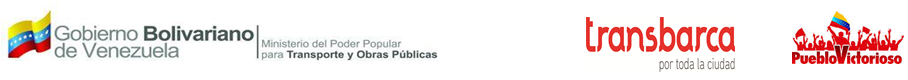
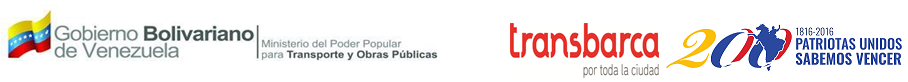
today

Changed region(s): [[0.5551, 0.15, 1.0, 0.925], [0.0, 0.225, 0.4934, 0.75]]

diff --git a/solvencias.html b/solvencias.html
@@ -16,7 +16,7 @@
    <link rel="stylesheet" href="css/calendario.css" type="text/css" media="screen">    
    <link rel="stylesheet" href="font-awesome/css/font-awesome.css" >
    <link rel="stylesheet" href="css/bootstrap-theme.css">
-   <link media="print" rel="stylesheet" type="text/css" href="print.css">
+   <link rel="stylesheet" media="print and (orientation:portrait)" href="print.css">
    <script src="js/jquery.min.js"></script>
    <script src="js/jquery.js"></script>
    <script src="js/solvenciaController.js" type="text/javascript"></script>
@@ -32,9 +32,9 @@
 <div id="header"></div>
 <body>
 <div id="cabecera">
-    <img src="images/cabecera.png">
+    <img src="images/solvencia.png">
   </div>
-<section class="inicio container">
+<section id="solvencias" class="inicio container">
   <h3>SOLVENCIA DE ENTREGA DE EQUIPOS TECNOLÓGICOS</h3>
     <article id="contenedor" class="row hidden-print">
       <div class="col-md-4 text-center">
@@ -106,30 +106,7 @@
         <button id="btnImprimir" type="button" class="btn hidden-print" onclick="window.print()">Imprimir</button>
       </div>
     </article>
-    <article id="contenedor" class="row">
-      <div id="bloque2" class="text-center col-md-12 visible-print">
-        <label class="padding"> Recibido por: </label>
-        <label>Entregado por:</label>   
-    </div>
-  </article>
-   <article id="firma" class="row visible-print">
-    <div class="col-md-12 text-center">
-      <label class="padding">_____________________</label><label>_____________________</label>
-    </div>
-  </article>
-  <article id="firma" class="row visible-print">
-    <div class="col-md-12 text-center">
-      <label class="padding">C.I.:__________________</label><label>C.I.:__________________</label>
-    </div>
-  </article>
-    <article class="row visible-print">
-      <div id="pie2" class="text-center col-md-12">
-          <p>Av. Florencio Jiménez, KM 3, Edif. Estación Central Simón Bolívar<br>
-        Piso PB,  Barquisimeto, Municipio Iribarren, Edo. Lara.<br>
-        RIF: G-20005347-0<br>
-        www.transbarca.gob.ve<br></p>
-      </div>
-  </article>  
+    
     </form>
 </section>
     <script src="js/menu.js" type="text/javascript"></script>    

diff --git a/reportetipoequipo.html b/reportetipoequipo.html
@@ -13,7 +13,7 @@
     <link rel="stylesheet" type="text/css" href="css/calendario.css">
     <link rel="stylesheet" href="css/bootstrap.min.css">
     <link rel="stylesheet" href="style.css" type="text/css" media="screen">
-    <link rel="stylesheet" href="print.css" type="text/css" media="print">
+    <link rel="stylesheet" media="print and (orientation:landscape)" href="landscape.css">
    <link rel="stylesheet" href="font-awesome/css/font-awesome.css" >
    <script src="js/jquery.min.js"></script>
    <script src="js/tooltips.js"></script>
@@ -24,9 +24,9 @@
 <div id="header"></div>
 <body>
 <div id="cabecera">
-    <img src="images/cabecera.png">
+    <img src="images/reportebieneslands.png">
   </div>
-<section class="inicio container">
+<section id="tipoequipo" class="inicio container">
   <h3>Reporte por Tipo</h3>
     <form>
       <article class="row hidden-print">
@@ -48,25 +48,7 @@
         <div class="col-md-2 col-md-offset-5">
           <button id="btnImprimir" type="button" class="btn hidden-print" onclick="window.print()">Imprimir</button>
         </div>
-    </article>
-    <article id="contenedor" class="row ">
-      <div id="bloque2" class="text-center col-md-12 visible-print">
-        <label>COORDINACIÓN DE TELECOMUNICACIONES</label>
-    </div>
-    </article>
-  <article id="firma" class="row visible-print">
-    <div class="col-md-12 text-center">
-     <label>_______________________</label>
-    </div>
-  </article>
-    <article class="row visible-print">
-      <div id="pie2" class="text-center col-md-12">
-          <p>Av. Florencio Jiménez, KM 3, Edif. Estación Central Simón Bolívar<br>
-        Piso PB,  Barquisimeto, Municipio Iribarren, Edo. Lara.<br>
-        RIF: G-20005347-0<br>
-        www.transbarca.gob.ve<br></p>
-      </div>
-  </article>  
+    </article>    
     </form>
 </section>
    <script src="js/services.js" type="text/javascript"></script> 

diff --git a/equipo.html b/equipo.html
@@ -50,33 +50,23 @@
         <div class="form-group bloque col-md-4 col-xs-6">
           <label>Color</label>
           <select name="color" class="form-control-2" id="color">
-            <option value="0"></option>
-            <option value="1">Administrador</option>
           </select>        
           <label>Estado del Bien</label>
           <select name="estado" class="form-control-2" id="estado">
-            <option value="0"></option>
-                    <option value="1">Administrador</option>
           </select>        
           <label>Unidad Administrativa</label> 
           <select name="unidad_admin" class="form-control-2" id="unidad_admin">
-          <option value="0"></option>
-                    <option value="1">Administrador</option>      
           </select>  
           <label>Unidad de Trabajo</label>
           <select name="unidad_trabajo" class="form-control-2" id="unidad_trabajo">
-          <option value="0"></option>
-          <option value="1">Administrador</option>  
            </select>      
         </div>
         <div class="form-group bloque col-md-4 col-xs-6">
           <label>Responsable</label>  
           <select name="responsable" class="form-control-2" id="responsable">
-            <option value="0"></option>
-              <option value="1">Administrador</option>
           </select>
           <label>Estatus de uso</label> 
-            <select name="estatus_uso_bien" class="form-control-2" id="estatus_uso_bien"></select>
+            <select name="estadoUsoEquipo" class="form-control-2" id="estadoUsoEquipo"></select>
           <label>Características:</label>
           <textarea type="text" class="form-control-2" name="caracteristicas" id="caracteristicas" data-placement="top" title="Por tipo de Equipo"></textarea>
           <label>Observaciones:</label>

diff --git a/js/services.js b/js/services.js
@@ -1519,13 +1519,6 @@ function getUsuariosBy(filtros)
 				success:function(response){
 					resolver(response);
 				},error:function(response){
-					swal({
-				title: 'Error',
-				text: 'El registro no existe o hay un error',
-				type: 'error',
-				confirmButtonText: 'Aceptar',
-				confirmButtonColor: '#D85852'
-				})
 					rechazar(response);
 				}
 			});
@@ -1565,13 +1558,6 @@ function getBienesBy(filtros)
 				success:function(response){
 					resolver(response);
 				},error:function(response){
-					swal({
-				title: 'Error',
-				text: 'El registro no existe o hay un error',
-				type: 'error',
-				confirmButtonText: 'Aceptar',
-				confirmButtonColor: '#D85852'
-				})
 					rechazar(response);
 				}
 			});
@@ -1588,13 +1574,6 @@ function getBienesGeneralBy(data)
 				success:function(response){
 					resolver(response);
 				},error:function(response){
-					swal({
-				title: 'Error',
-				text: 'El registro no existe o hay un error',
-				type: 'error',
-				confirmButtonText: 'Aceptar',
-				confirmButtonColor: '#D85852'
-				})
 					rechazar(response);
 				}
 			});
@@ -1611,13 +1590,6 @@ function getEquiposBy(filtros)
 				success:function(response){
 					resolver(response);
 				},error:function(response){
-					swal({
-				title: 'Error',
-				text: 'El registro no existe o hay un error',
-				type: 'error',
-				confirmButtonText: 'Aceptar',
-				confirmButtonColor: '#D85852'
-				})
 					rechazar(response);
 				}
 			});
@@ -1634,13 +1606,6 @@ function getNivelesBy(data)
 				success:function(response){
 					resolver(response);
 				},error:function(response){
-					swal({
-				title: 'Error',
-				text: 'El registro no existe o hay un error',
-				type: 'error',
-				confirmButtonText: 'Aceptar',
-				confirmButtonColor: '#D85852'
-				})
 					rechazar(response);
 				}
 			});

diff --git a/js/EquipoController.js b/js/EquipoController.js
@@ -39,7 +39,9 @@ $(document).ready(function()
             frm = $("#formEquipo");
             dataForm = getFormData(frm);
             dataForm.status=1;
-            registrarEquipo(dataForm);
+            registrarEquipo(dataForm).then(function(data){
+                  console.log("funciona");   
+                });  ;
         });
 
         $("#btnModificar").click(function()
@@ -71,9 +73,7 @@ $(document).ready(function()
             });
         });            
 
-        //Unidad de Trabajo
-        getConfiguracionBy("?tipo=Color").then(function(data){
-            //Despues del retorno del promise, se cargan en el select con jsonToSelect
+        getConfiguracionBy("?tipo=COLOR").then(function(data){
             jsonToSelect({        
                 data : data,
                 value : "descripcion",
@@ -123,7 +123,7 @@ $(document).ready(function()
         })           
         
         //Descripción
-        getConfiguracionEquipoBy("?tipo=Descripción").then(function(data){
+        getConfiguracionEquipoBy("?tipo=DESCRIPCIóN").then(function(data){
             jsonToSelect({        
                 data : data,
                 value : "descripcion",
@@ -133,7 +133,7 @@ $(document).ready(function()
         })    
 
         //Marca
-        getConfiguracionEquipoBy("?tipo=Marca").then(function(data){
+        getConfiguracionEquipoBy("?tipo=MARCA").then(function(data){
             jsonToSelect({        
                 data : data,
                 value : "descripcion",
@@ -144,7 +144,7 @@ $(document).ready(function()
 
 
         //Modelo
-        getConfiguracionEquipoBy("?tipo=Modelo").then(function(data){
+        getConfiguracionEquipoBy("?tipo=MODELO").then(function(data){
             jsonToSelect({        
                 data : data,
                 value : "descripcion",

diff --git a/js/BienesController.js b/js/BienesController.js
@@ -97,7 +97,7 @@ $(document).ready(function()
         getUnidadAdministrativaBy('').then(function(data){
             jsonToSelect({        
                 data : data,
-                value : "codigo",
+                value : "id",
                 alias : "descripcion",
                 element : $("#cat_unid_admin")
                 });
@@ -127,14 +127,14 @@ $(document).ready(function()
         getUnidadTrabajoBy('').then(function(data){
             jsonToSelect({        
                 data : data,
-                value : "descripcion",
+                value : "id",
                 alias : "descripcion",
                 element : $("#unidad_trabajo")
                 });
         })        
 
         //Descripción
-        getConfiguracionEquipoBy("?tipo=DESCRIPCION").then(function(data){
+        getConfiguracionEquipoBy("?tipo=DESCRIPCIÓN").then(function(data){
             jsonToSelect({        
                 data : data,
                 value : "descripcion",

diff --git a/catalogoEquipos.html b/catalogoEquipos.html
@@ -42,9 +42,7 @@
           </select>             
           <label>Descripción</label>
           <input type="text" name="descripcion" id="descripcion" class="form-control-2" data-toggle="tooltip" title="Nombre del item a agregar"></input>  
-          <label>Código</label>
-          <input type="text" name="codigo" id="codigo" class="form-control-2" data-toggle="tooltip" title="Código del Item"></input><br>
-          <button id= "btnGuardarTipoCongif" type="button" class="btn icon-save" onclick=""></button>                             
+          <button id= "btnGuardarTipoConfig" type="button" class="btn icon-save" onclick=""></button>                             
         </form> <!--FIN Registro--> 
           <form class="form-group bloque col-md-4">
             <h3>Actualizar o Borrar</h3>

diff --git a/catalogoConfigAdmin.html b/catalogoConfigAdmin.html
@@ -42,8 +42,6 @@
           </select>             
           <label>Descripción</label>
           <input type="text" name="descripcion" id="descripcion" class="form-control-2" data-toggle="tooltip" title="Nombre del item a agregar"></input>  
-          <label>Código</label>
-          <input type="text" name="codigo" id="codigo" class="form-control-2" data-toggle="tooltip" title="Código del Item"></input><br>
           <button id= "btnGuardarTipoConfig" type="button" class="btn icon-save" onclick=""></button>                             
         </form> <!--FIN Registro-->       
          <form class="form-group bloque col-md-4">

diff --git a/reportetipobien.html b/reportetipobien.html
@@ -25,16 +25,12 @@
   <!--                    CUERPO PRINCIPAL             -->
 <div id="header"></div>
 <body>
-<style type="text/css">
-  @page {
-  size: portrait;}
-</style>
 <div id="cabecera">
     <img src="images/reportebieneslands.png">
   </div>
 <section id="tipobien" class="inicio container-fluid">
-  <h3>Reporte por Tipo</h3>
     <form>
+  <h3>Reporte por Tipo</h3>
       <article class="row hidden-print">
         <div class="form-group col-md-3 col-md-offset-3">
           <label>Bien</label>

diff --git a/registropersonal.html b/registropersonal.html
@@ -18,6 +18,7 @@
    <link rel="stylesheet" href="css/bootstrap-theme.css">  
    <script src="js/jquery.min.js"></script>
    <script src="js/jquery.js"></script>   
+   <script src="js/registroResponsableController.js" type="text/javascript"></script>
     <script src="js/valida.js" type="text/javascript"></script>
     <script type="text/javascript" src="js/services.js"></script>
     <script src="js/tooltips.js" type="text/javascript"></script>

diff --git a/reporteestatus.html b/reporteestatus.html
@@ -18,6 +18,7 @@
    <link rel="stylesheet" type="text/css" href="css/sweetalert.css">
    <script src="js/sweetalert.min.js"></script>
    <script src="js/jquery.min.js"></script>
+   <script src="js/reporteEstatusController.js" type="text/javascript"></script>
    <script src="js/tooltips.js"></script>
    <script src="js/select.js" type="text/javascript"></script>
   </head>

diff --git a/reporterespadm.html b/reporterespadm.html
@@ -26,9 +26,9 @@
 <div id="header"></div>
 <body>
 <div id="cabecera">
-    <img src="images/cabecera2.png">
+    <img src="images/reportebieneslands.png">
   </div>
-<section class="inicio container-fluid">
+<section id="respadm" class="inicio container-fluid">
   <h3>Inventario por Responsable Administrativo</h3>
   <form>
       <article class="row hidden-print">
